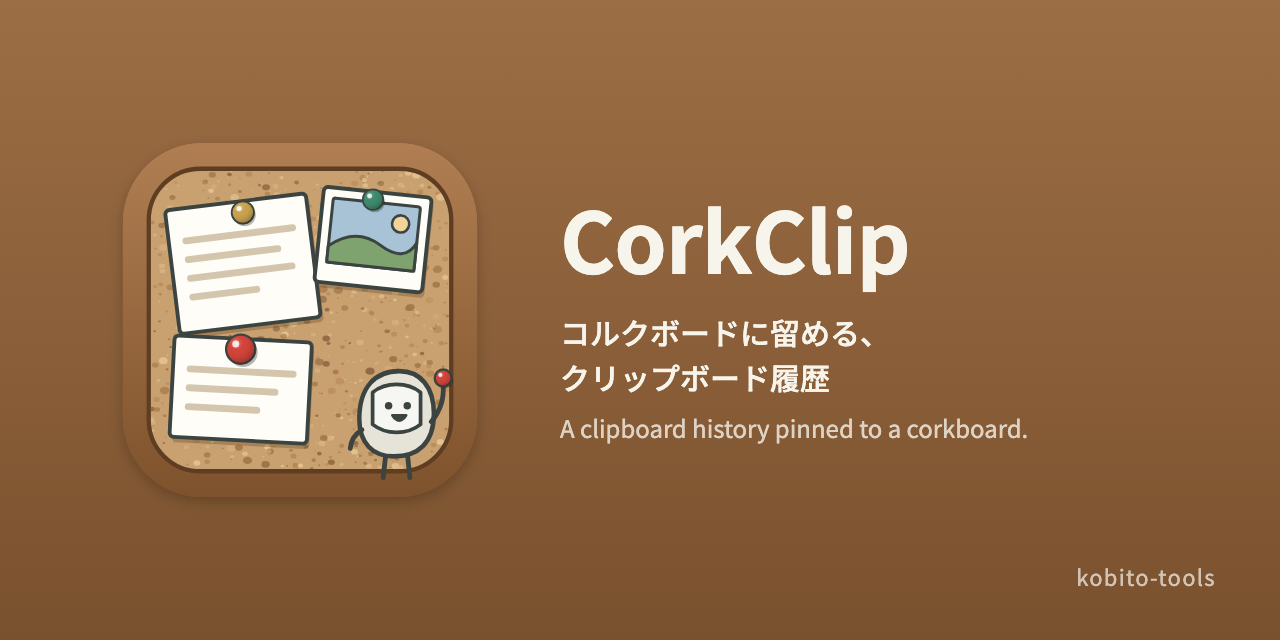
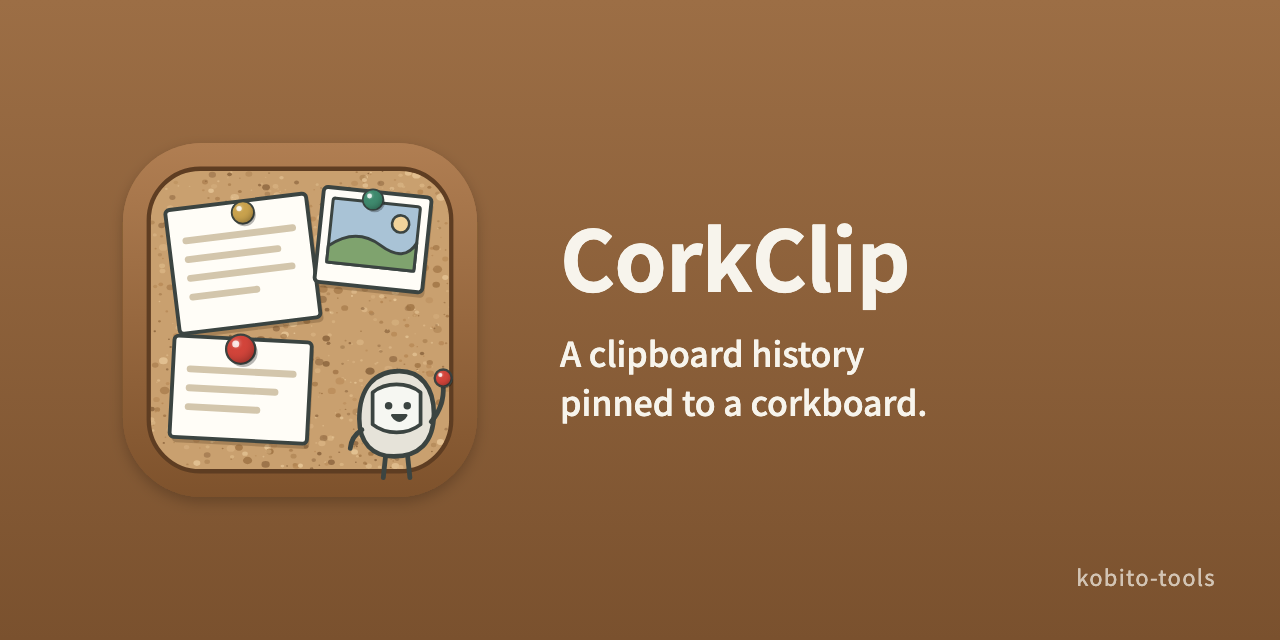
Make the README demo and social preview in English and Japanese
demo.html draws everything in English by default and in Japanese with
?lang=ja; scripts/demo.sh writes docs/images/demo.gif (English) and
demo.ja.gif (Japanese), and README.ja.md shows the Japanese one.
scripts/social-preview.sh writes assets/social-preview.png (English) and
social-preview.ja.png (Japanese).

Changed region(s): [[0.4375, 0.3125, 0.8125, 0.6875]]

diff --git a/scripts/demo/demo.html b/scripts/demo/demo.html
@@ -1,8 +1,9 @@
 <!doctype html>
-<!-- README のデモ（docs/images/demo.gif）の元になる絵。render(秒) でその時刻の画面を描く。scripts/demo.sh がコマ撮りする。
+<!-- README のデモ（docs/images/demo.gif・demo.ja.gif）の元になる絵。render(秒) でその時刻の画面を描く。scripts/demo.sh がコマ撮りする。
      ボードの見た目は Sources/Panel/Theme.swift・Corkboard.swift・PanelView.swift・ModeViews.swift に合わせて描く（実機のパネルは自動では撮れないため）。
-     映すのは架空の内容だけにする（実在の人のパスや履歴を入れない）。字幕は README の既定に合わせて英語、ボードの中はアプリと同じ日本語。 -->
-<html lang="ja"><head><meta charset="utf-8">
+     映すのは架空の内容だけにする（実在の人のパスや履歴を入れない）。
+     ?lang=en（既定）は英語の README 用で、字幕・ボード・例文をすべて英語にする。?lang=ja は日本語の README 用で、すべて日本語。 -->
+<html><head><meta charset="utf-8">
 <style>
 :root{--accent:#4F6C84;--paper:#F7F1E3;--card:#FFFDF7;--cardBorder:#E3D7BF;--well:#FCF9F1;--wellBorder:#DCCFB5;--ink:#3B4441;--subtle:#76716A;--keycap:#EDE5D3;--frame:#8B5E3A;--frameHi:#B07E52;--shade:rgba(91,62,34,.28)}
 *{box-sizing:border-box}
@@ -24,6 +25,8 @@ body{font-family:-apple-system,"Hiragino Sans","Hiragino Kaku Gothic ProN",sans-
 .pdf{padding:26px 34px;font-family:"Hiragino Mincho ProN",serif;font-size:14px;line-height:1.9;color:#222}
 .pdf h3{font-family:-apple-system,"Hiragino Sans",sans-serif;font-size:14px;margin:0 0 8px}
 .gl{height:9px;border-radius:4px;background:#E6E4DF;margin:12px 0}
+body.en .pdf{font-family:"Times New Roman",Times,serif;font-size:15px}
+body.en .tf .names{width:150px}body.en .tf .out{font-size:11.5px}
 .sel{background:#B4D5FE}.inactive .sel{background:#DCDCDC}
 
 /* ボード：論理の大きさ 410×660 で描き、0.85 倍に縮めて置く。 */
@@ -122,16 +125,16 @@ table.tb{border-collapse:collapse;font-size:12px;margin-top:2px;white-space:norm
 table.tb td{border:1px solid #D9D6CE;padding:3px 10px;background:#fff}
 table.tb tr:first-child td{background:#EEF2EA;font-weight:600}
 </style></head><body>
-<div class="menubar"><div class="dot"></div><b id="appname">プレビュー</b><span>ファイル</span><span>編集</span><span>表示</span>
-  <div class="right"><div class="mbicon" id="mbicon"><svg width="18" height="18" viewBox="0 0 18 18"><rect x="1.75" y="3.25" width="14.5" height="11.5" rx="2.2" fill="none" stroke="#3B4441" stroke-width="1.5"/><g fill="#3B4441"><circle cx="12.6" cy="7" r=".6"/><circle cx="13.2" cy="11.6" r=".6"/><circle cx="10.9" cy="12.4" r=".6"/><rect x="4.4" y="7.2" width="6" height="5.4" transform="rotate(-7 7.4 9.6)"/></g><circle cx="7.3" cy="7" r="2.4" fill="#F6F4EE"/><circle cx="7.3" cy="7" r="1.65" fill="#3B4441"/></svg></div><span>9月30日(水) 10:24</span></div></div>
+<div class="menubar"><div class="dot"></div><b id="appname"></b><span id="m1"></span><span id="m2"></span><span id="m3"></span>
+  <div class="right"><div class="mbicon" id="mbicon"><svg width="18" height="18" viewBox="0 0 18 18"><rect x="1.75" y="3.25" width="14.5" height="11.5" rx="2.2" fill="none" stroke="#3B4441" stroke-width="1.5"/><g fill="#3B4441"><circle cx="12.6" cy="7" r=".6"/><circle cx="13.2" cy="11.6" r=".6"/><circle cx="10.9" cy="12.4" r=".6"/><rect x="4.4" y="7.2" width="6" height="5.4" transform="rotate(-7 7.4 9.6)"/></g><circle cx="7.3" cy="7" r="2.4" fill="#F6F4EE"/><circle cx="7.3" cy="7" r="1.65" fill="#3B4441"/></svg></div><span id="clock"></span></div></div>
 
 <div class="win" id="docwin" style="left:36px;top:62px;width:500px;height:430px">
-  <div class="bar"><i style="background:#FF5F57"></i><i style="background:#FEBC2E"></i><i style="background:#28C840"></i><span>ゼミの準備.txt</span></div>
-  <div class="doc"><h2>9月30日 ゼミの準備</h2>・先行研究のまとめ<br><span id="paste"></span><span class="caret" id="caret"></span></div>
+  <div class="bar"><i style="background:#FF5F57"></i><i style="background:#FEBC2E"></i><i style="background:#28C840"></i><span id="doctitle"></span></div>
+  <div class="doc"><h2 id="dochead"></h2><span id="docline"></span><br><span id="paste"></span><span class="caret" id="caret"></span></div>
 </div>
 <div class="win" id="pdfwin" style="left:250px;top:84px;width:520px;height:400px">
-  <div class="bar"><i style="background:#FF5F57"></i><i style="background:#FEBC2E"></i><i style="background:#28C840"></i><span>論文.pdf</span></div>
-  <div class="pdf"><h3>1　はじめに</h3><div id="pdflines"></div>
+  <div class="bar"><i style="background:#FF5F57"></i><i style="background:#FEBC2E"></i><i style="background:#28C840"></i><span id="pdftitle"></span></div>
+  <div class="pdf"><h3 id="pdfhead"></h3><div id="pdflines"></div>
     <div class="gl" style="width:92%"></div><div class="gl" style="width:86%"></div><div class="gl" style="width:90%"></div><div class="gl" style="width:60%"></div></div>
 </div>
 
@@ -141,6 +144,15 @@ table.tb tr:first-child td{background:#EEF2EA;font-weight:600}
 <div class="fly" id="fly">📋</div>
 
 <script>
+// 言語。?lang=ja なら日本語、それ以外は英語。L(日本語, 英語) で文言を選ぶ。
+const EN = new URLSearchParams(location.search).get("lang") !== "ja";
+const L = (ja, en) => EN ? en : ja;
+document.documentElement.lang = L("ja", "en");
+document.body.classList.toggle("en", EN);
+for (const [id, ja, en] of [["m1", "ファイル", "File"], ["m2", "編集", "Edit"], ["m3", "表示", "View"], ["clock", "9月30日(水) 10:24", "Wed Sep 30 10:24"],
+  ["doctitle", "ゼミの準備.txt", "meeting-notes.txt"], ["dochead", "9月30日 ゼミの準備", "Sep 30 — Reading group"], ["docline", "・先行研究のまとめ", "• Summary of related work"],
+  ["pdftitle", "論文.pdf", "paper.pdf"], ["pdfhead", "1　はじめに", "1  Introduction"]]) document.getElementById(id).textContent = L(ja, en);
+
 // ボードの置き方（論理の大きさと縮め方）。
 const PW = 410, PH = 660, SCALE = 0.85, PX = 960 - Math.round(PW * SCALE) - 18, PY = 30;
 
@@ -167,8 +179,10 @@ const corkTile = (() => {
 document.getElementById("panel").style.backgroundImage = `url(${corkTile})`;
 document.getElementById("panel").style.backgroundSize = "140px 140px";
 
-const PDF_LINES = ["大規模言語モデルは、少数の例を示すだけ", "で新しいタスクに適応できることが知られ", "ている。本研究では、その仕組みを注意機", "構の観点から分析する。"];
-const PDF_TEXT = PDF_LINES.join("\n"), JOINED = PDF_LINES.join("");
+const PDF_LINES = L(["大規模言語モデルは、少数の例を示すだけ", "で新しいタスクに適応できることが知られ", "ている。本研究では、その仕組みを注意機", "構の観点から分析する。"],
+  ["Large language models can learn new", "tasks from just a few examples. In this", "paper, we study how this works through", "the lens of attention."]);
+// 改行を消す：日本語はそのままつなぎ、英語は半角スペースでつなぐ（LineJoiner.swift と同じ）。
+const PDF_TEXT = PDF_LINES.join("\n"), JOINED = PDF_LINES.join(L("", " "));
 const WESTERN = s => s.replace(/、/g, "，").replace(/。/g, "．");
 document.getElementById("pdflines").innerHTML = PDF_LINES.map((l, i) => `<div><span id="pl${i}">${l}</span></div>`).join("");
 
@@ -204,46 +218,58 @@ const SYM = {
 };
 const CHART = w => `<svg width="${w}" height="${Math.round(w * .62)}" viewBox="0 0 100 62"><rect width="100" height="62" fill="#fff"/><path d="M12 6v48h82" stroke="#9AA" fill="none" stroke-width=".8"/>
   <rect x="20" y="30" width="14" height="24" fill="#8FA2B3"/><rect x="42" y="18" width="14" height="36" fill="#5F7A90"/><rect x="64" y="10" width="14" height="44" fill="#C75543"/>
-  <text x="50" y="7" font-size="5.5" text-anchor="middle" fill="#444" font-family="sans-serif">精度の比較</text></svg>`;
+  <text x="50" y="7" font-size="5.5" text-anchor="middle" fill="#444" font-family="sans-serif">${L("精度の比較", "Accuracy")}</text></svg>`;
 const APPS = {
-  "com.apple.Preview": ["プレビュー", "#3E8EE8", "P"], "com.apple.screencaptureui": ["スクリーンショット", "#6B7479", "S"],
+  "com.apple.Preview": [L("プレビュー", "Preview"), "#3E8EE8", "P"], "com.apple.screencaptureui": [L("スクリーンショット", "Screenshot"), "#6B7479", "S"],
   "com.microsoft.Excel": ["Microsoft Excel", "#1F7A45", "X"], "com.apple.finder": ["Finder", "#3C9BF0", "F"],
   "io.github.kobito-tools.corkclip": ["CorkClip", "#8B5E3A", "C"], "com.apple.Safari": ["Safari", "#2F86E8", "S"],
 };
 const appIcon = b => `<span class="appi" style="background:${APPS[b][1]}">${APPS[b][2]}</span>`;
 
 // 履歴（架空の内容）。styles は PasteStyle.swift と同じ並び。
-const MORE = ["ほかの変換…", "more"];
+const MORE = [L("ほかの変換…", "More transforms…"), "more"];
+const TAG_PAPER = L("論文", "paper");
+// 日付・回数・大きさの一行。
+const FOOT = (date, copies, pastes, size, chars) => EN
+  ? `${date} · copied ${copies}× · pasted ${pastes}× · ${size}${chars ? ` · ${chars} chars` : ""}`
+  : `${date}・コピー${copies}回・貼り付け${pastes}回・${size}${chars ? `・${chars}文字` : ""}`;
+const PDF_BYTES = new TextEncoder().encode(PDF_TEXT).length;
 const CLIPS = [
-  { id: "pdf", kind: "text", kindLabel: "テキスト", bundle: "com.apple.Preview", time: "10 秒前", tags: ["論文"], display: JOINED,
-    styles: [["そのまま", "text"], ["改行を消す", "joinLines"], ["「，．」に", "abc"], MORE],
-    body: () => esc(PDF_TEXT), result: [null, JOINED, WESTERN(PDF_TEXT)], foot: "2026/09/30 10:24・コピー1回・貼り付け0回・232 bytes・76文字" },
-  { id: "graph", kind: "photo", kindLabel: "画像", bundle: "com.apple.screencaptureui", time: "3 分前", tags: [], display: "画像 1280×800",
-    styles: [["画像", "photo"], ["画像の文字", "search"], MORE],
-    body: () => `<div style="display:flex;justify-content:center">${CHART(180)}</div><div style="font-size:11px;color:#8E8A83;margin-top:4px">画像の文字：精度の比較</div>`,
-    foot: "2026/09/30 10:21・コピー1回・貼り付け0回・184 KB" },
-  { id: "table", kind: "table", kindLabel: "書式付き", bundle: "com.microsoft.Excel", time: "12 分前", tags: ["実験"], display: "条件　精度　時間",
-    styles: [["書式付き", "table"], ["プレーン", "abc"], ["表 → LaTeX", "table"], ["表 → Markdown", "table"], ["表 → CSV", "table"], MORE],
-    body: () => `<table class="tb"><tr><td>条件</td><td>精度</td><td>時間</td></tr><tr><td>手法A</td><td>0.82</td><td>1.4s</td></tr><tr><td>手法B</td><td>0.87</td><td>2.1s</td></tr><tr><td>手法C</td><td>0.91</td><td>3.0s</td></tr></table>`,
-    foot: "2026/09/30 10:12・コピー2回・貼り付け1回・6 KB・48文字" },
-  { id: "file", kind: "file", kindLabel: "ファイル", bundle: "com.apple.finder", time: "1 時間前", tags: [], display: "実験データ.csv",
-    styles: [["ファイル", "file"], ["パス", "file"], ["~ のパス", "file"], ["ファイル名", "text"], ["file://", "link"]],
-    body: () => `<div style="display:flex;gap:8px;align-items:flex-start;white-space:normal"><span style="color:#5C668F">${SYM.file(28)}</span><div><div>実験データ.csv</div><div style="font-size:11px;color:#8E8A83">~/Research/2026</div></div></div>`,
-    foot: "2026/09/30 09:20・コピー1回・貼り付け0回・1 KB" },
-  { id: "formula", kind: "formula", kindLabel: "数式", bundle: "io.github.kobito-tools.corkclip", time: "1 日前", tags: ["論文"], display: "\\int_0^1 f(x)\\,dx = F(1) - F(0)",
-    styles: [["数式画像", "formula"], ["LaTeX の式", "text"], MORE],
+  { id: "pdf", kind: "text", kindLabel: L("テキスト", "Text"), bundle: "com.apple.Preview", time: L("10 秒前", "10 sec ago"), tags: [TAG_PAPER], display: JOINED,
+    // 英語の文には「，．」の貼り方が出ない（PasteStyle.swift と同じ）。
+    styles: EN ? [["As is", "text"], ["Join lines", "joinLines"], MORE] : [["そのまま", "text"], ["改行を消す", "joinLines"], ["「，．」に", "abc"], MORE],
+    body: () => esc(PDF_TEXT), result: [null, JOINED, WESTERN(PDF_TEXT)], foot: FOOT("2026/09/30 10:24", 1, 0, `${PDF_BYTES} bytes`, [...JOINED].length) },
+  { id: "graph", kind: "photo", kindLabel: L("画像", "Image"), bundle: "com.apple.screencaptureui", time: L("3 分前", "3 min ago"), tags: [], display: L("画像 1280×800", "Image 1280×800"),
+    styles: [[L("画像", "Image"), "photo"], [L("画像の文字", "Text in image"), "search"], MORE],
+    body: () => `<div style="display:flex;justify-content:center">${CHART(180)}</div><div style="font-size:11px;color:#8E8A83;margin-top:4px">${L("画像の文字：精度の比較", "Text in image: Accuracy")}</div>`,
+    foot: FOOT("2026/09/30 10:21", 1, 0, "184 KB") },
+  { id: "table", kind: "table", kindLabel: L("書式付き", "Rich text"), bundle: "com.microsoft.Excel", time: L("12 分前", "12 min ago"), tags: [L("実験", "experiment")], display: L("条件　精度　時間", "Method  Accuracy  Time"),
+    styles: [[L("書式付き", "Rich text"), "table"], [L("プレーン", "Plain"), "abc"], [L("表 → LaTeX", "Table → LaTeX"), "table"], [L("表 → Markdown", "Table → Markdown"), "table"], [L("表 → CSV", "Table → CSV"), "table"], MORE],
+    body: () => `<table class="tb"><tr><td>${L("条件", "Method")}</td><td>${L("精度", "Accuracy")}</td><td>${L("時間", "Time")}</td></tr><tr><td>${L("手法A", "Method A")}</td><td>0.82</td><td>1.4s</td></tr><tr><td>${L("手法B", "Method B")}</td><td>0.87</td><td>2.1s</td></tr><tr><td>${L("手法C", "Method C")}</td><td>0.91</td><td>3.0s</td></tr></table>`,
+    foot: FOOT("2026/09/30 10:12", 2, 1, "6 KB", 48) },
+  { id: "file", kind: "file", kindLabel: L("ファイル", "File"), bundle: "com.apple.finder", time: L("1 時間前", "1 hr ago"), tags: [], display: L("実験データ.csv", "results.csv"),
+    styles: [[L("ファイル", "File"), "file"], [L("パス", "Path"), "file"], [L("~ のパス", "~ path"), "file"], [L("ファイル名", "File name"), "text"], ["file://", "link"]],
+    body: () => `<div style="display:flex;gap:8px;align-items:flex-start;white-space:normal"><span style="color:#5C668F">${SYM.file(28)}</span><div><div>${L("実験データ.csv", "results.csv")}</div><div style="font-size:11px;color:#8E8A83">~/Research/2026</div></div></div>`,
+    foot: FOOT("2026/09/30 09:20", 1, 0, "1 KB") },
+  { id: "formula", kind: "formula", kindLabel: L("数式", "Formula"), bundle: "io.github.kobito-tools.corkclip", time: L("1 日前", "1 day ago"), tags: [TAG_PAPER], display: "\\int_0^1 f(x)\\,dx = F(1) - F(0)",
+    styles: [[L("数式画像", "Formula image"), "formula"], [L("LaTeX の式", "LaTeX source"), "text"], MORE],
     body: () => `<div class="mathimg">∫<sub style="font-size:14px">0</sub><sup style="font-size:14px">1</sup> f(x) dx = F(1) − F(0)</div><div style="font:11px Menlo,monospace;color:#8E8A83">\\int_0^1 f(x)\\,dx = F(1) - F(0)</div>`,
-    foot: "2026/09/29 17:05・コピー1回・貼り付け3回・38 KB" },
-  { id: "link", kind: "link", kindLabel: "リンク", bundle: "com.apple.Safari", time: "1 日前", tags: ["論文"], display: "https://example.org/papers/attention-2026",
-    styles: [["そのまま", "link"], MORE],
-    body: () => "https://example.org/papers/attention-2026", foot: "2026/09/29 16:40・コピー1回・貼り付け0回・41 bytes・41文字" },
+    foot: FOOT("2026/09/29 17:05", 1, 3, "38 KB") },
+  { id: "link", kind: "link", kindLabel: L("リンク", "Link"), bundle: "com.apple.Safari", time: L("1 日前", "1 day ago"), tags: [TAG_PAPER], display: "https://example.org/papers/attention-2026",
+    styles: [[L("そのまま", "As is"), "link"], MORE],
+    body: () => "https://example.org/papers/attention-2026", foot: FOOT("2026/09/29 16:40", 1, 0, "41 bytes", 41) },
 ];
 // → の画面（ModeViews.swift のほかの変換と、PanelModel.swift のできること）。
-const TRANSFORMS = ["改行を消す", "句読点を「，．」に", "句読点を「、。」に", "英数字・記号を半角に", "半角カタカナを全角に", "余分な空白を消す", "大文字に", "小文字に", "文の先頭だけ大文字に",
-  "表を LaTeX の tabular に", "表を Markdown に", "表を CSV に", "引用（> ）にする", "箇条書き（- ）にする", "箇条書き（・）にする", "番号付き（1. ）にする", "数式画像にする"];
+const TRANSFORMS = EN
+  ? ["Join lines", "Punctuation to ，．", "Punctuation to 、。", "Full-width to half-width", "Kana to full-width", "Remove extra spaces", "UPPERCASE", "lowercase", "Sentence case",
+    "Table to LaTeX tabular", "Table to Markdown", "Table to CSV", "Quote (> )", "Bullets (- )", "Bullets (・)", "Numbered (1. )", "Formula image"]
+  : ["改行を消す", "句読点を「，．」に", "句読点を「、。」に", "英数字・記号を半角に", "半角カタカナを全角に", "余分な空白を消す", "大文字に", "小文字に", "文の先頭だけ大文字に",
+    "表を LaTeX の tabular に", "表を Markdown に", "表を CSV に", "引用（> ）にする", "箇条書き（- ）にする", "箇条書き（・）にする", "番号付き（1. ）にする", "数式画像にする"];
+// 英語の文では句読点の変換は何も変えない。
 const TF_RESULT = [JOINED, WESTERN(PDF_TEXT), PDF_TEXT];
-const ACTIONS = [["T", "tag", "タグを付ける・外す", "⌘T"], ["P", "pin", "ピン留めする", "⌘P"], ["E", "pencil", "編集してから貼る", "⌘E"], ["L", "formula", "数式画像を作る", "⌘L"],
-  ["K", "stack", "ペーストスタックに積む", ""], ["S", "calPlus", "カードに残す", "⌘S"], ["D", "trash", "履歴から削除", "⌘⌫"]];
+const ACTIONS = [["T", "tag", L("タグを付ける・外す", "Add or remove tags"), "⌘T"], ["P", "pin", L("ピン留めする", "Pin"), "⌘P"], ["E", "pencil", L("編集してから貼る", "Edit, then paste"), "⌘E"],
+  ["L", "formula", L("数式画像を作る", "Make a formula image"), "⌘L"], ["K", "stack", L("ペーストスタックに積む", "Add to the paste stack"), ""], ["S", "calPlus", L("カードに残す", "Keep as a card"), "⌘S"],
+  ["D", "trash", L("履歴から削除", "Delete from history"), "⌘⌫"]];
 
 function esc(s) { return s.replace(/&/g, "&amp;").replace(/</g, "&lt;"); }
 const clamp = (x, a = 0, b = 1) => Math.min(b, Math.max(a, x));
@@ -253,14 +279,14 @@ const pressed = (t, at, len = .2) => t >= at && t < at + len;
 
 // 何秒に何が起きるか：[出す, 消す, キー, 字幕, キーを押す時刻]
 const CAPTIONS = [
-  [1.2, 3.1, ["⌘", "C"], "Copy as usual. CorkClip keeps it as it is", 1.6],
-  [3.3, 4.9, ["⌥", "⌘", "V"], "Bring up the board from the screen edge", 3.7],
-  [5.0, 8.2, ["↑", "↓"], "Pick an item to see it up close", 5.4],
-  [8.3, 10.7, ["⇥"], "Choose how to paste, and check the result first", 8.9],
-  [10.8, 12.3, ["Enter"], "Paste", 11.0],
-  [12.4, 14.9, ["#論文"], "Filter by #tag, type: or app:", 13.2],
-  [15.0, 18.0, ["→"], "Other transforms, and what you can do", 15.3],
-  [18.1, 20.0, ["S"], "One letter runs an action: keep it as a card", 18.5],
+  [1.2, 3.1, ["⌘", "C"], L("いつもどおりコピー。CorkClip がそのまま残します", "Copy as usual. CorkClip keeps it as it is"), 1.6],
+  [3.3, 4.9, ["⌥", "⌘", "V"], L("画面の端からボードを出す", "Bring up the board from the screen edge"), 3.7],
+  [5.0, 8.2, ["↑", "↓"], L("項目を選んで、中身を大きく見る", "Pick an item to see it up close"), 5.4],
+  [8.3, 10.7, ["⇥"], L("貼り方を選び、結果を先に確かめる", "Choose how to paste, and check the result first"), 8.9],
+  [10.8, 12.3, ["Enter"], L("貼る", "Paste"), 11.0],
+  [12.4, 14.9, ["#" + TAG_PAPER], L("#タグ・type:・app: で絞り込む", "Filter by #tag, type: or app:"), 13.2],
+  [15.0, 18.0, ["→"], L("ほかの変換と、この項目にできること", "Other transforms, and what you can do"), 15.3],
+  [18.1, 20.0, ["S"], L("英字1つで操作：カードに残す", "One letter runs an action: keep it as a card"), 18.5],
 ];
 const DOWNS = [5.4, 6.0, 6.6], UPS = [7.3, 7.55, 7.8];
 const TAB_AT = 8.9, ENTER_AT = 11.0, RIGHT_AT = 15.3, TF_DOWN = [16.3, 17.1], S_AT = 18.5;
@@ -282,7 +308,7 @@ function render(t) {
   const docFront = t >= 3.3;
   $("docwin").style.zIndex = docFront ? 2 : 1; $("pdfwin").style.zIndex = docFront ? 1 : 2;
   $("docwin").classList.toggle("inactive", !docFront); $("pdfwin").classList.toggle("inactive", docFront);
-  $("appname").textContent = docFront ? "テキストエディット" : "プレビュー";
+  $("appname").textContent = docFront ? L("テキストエディット", "TextEdit") : L("プレビュー", "Preview");
   // PDF の文を選ぶ。
   const selP = clamp((t - 0.3) / 1.0) * PDF_LINES.length;
   PDF_LINES.forEach((_, i) => $("pl" + i).className = selP > i + 0.2 ? "sel" : "");
@@ -328,8 +354,9 @@ const keycap = (k, down = false, small = false) => `<span class="kc${small ? " s
 function panelHTML(t) {
   const second = t >= 12.4;
   // 検索
-  const typed = !second ? "" : t < 13.2 ? "" : t < 13.5 ? "#" : t < 13.8 ? "#論" : "#論文";
-  const rows = typed === "#論文" ? CLIPS.filter(c => c.tags.includes("論文")) : CLIPS;
+  const full = "#" + TAG_PAPER, half = full.slice(0, Math.ceil(full.length / 2));
+  const typed = !second ? "" : t < 13.2 ? "" : t < 13.5 ? "#" : t < 13.8 ? half : full;
+  const rows = typed === full ? CLIPS.filter(c => c.tags.includes(TAG_PAPER)) : CLIPS;
   // 選択と貼り方
   let sel = 0;
   if (!second) sel = DOWNS.filter(d => t >= d).length - UPS.filter(d => t >= d).length;
@@ -337,23 +364,23 @@ function panelHTML(t) {
   const styleIndex = !second && t >= TAB_AT ? 1 : 0;
   const mode = second && t >= RIGHT_AT && t < S_AT + 0.1 ? "transform" : "list";
   const tfIndex = TF_DOWN.filter(d => t >= d).length;
-  const toast = second && t >= S_AT + 0.1 ? "カードに残しました（9月30日のクリップ・1件）" : null;
-  const lastMethod = second ? "改行を消す" : null; // 1回目に「改行を消す」で貼ったので
+  const toast = second && t >= S_AT + 0.1 ? L("カードに残しました（9月30日のクリップ・1件）", "Kept as a card (Clips for Sep 30 · 1 item)") : null;
+  const lastMethod = second ? L("改行を消す", "Join lines") : null; // 1回目に「改行を消す」で貼ったので
 
   let h = `<div class="header strip"><div class="field">${SYM.search(15)}`
-    + (typed ? `<span class="q">${typed}</span><span class="caret" style="height:15px;visibility:${Math.floor(t * 2) % 2 ? "hidden" : "visible"}"></span>` : `<span class="ph">検索（#タグ type:画像 app:Word …）</span>`)
+    + (typed ? `<span class="q">${typed}</span><span class="caret" style="height:15px;visibility:${Math.floor(t * 2) % 2 ? "hidden" : "visible"}"></span>` : `<span class="ph">${L("検索（#タグ type:画像 app:Word …）", "Search (#tag type:image app:Word …)")}</span>`)
     + `</div>${SYM.sort(16)}${SYM.gear(16)}</div>`;
 
   if (mode === "transform") {
     h += `<div class="well" style="height:250px">${pin("l")}${pin("r")}<div class="mode" style="height:100%">`
-      + `<div class="mtitle">${SYM.wand(17)}ほかの変換<span class="r">space でつなげる</span></div>`
+      + `<div class="mtitle">${SYM.wand(17)}${L("ほかの変換", "More transforms")}<span class="r">${L("space でつなげる", "space to chain")}</span></div>`
       + `<div class="tf"><div class="names">${TRANSFORMS.map((x, i) => `<div class="${i === tfIndex ? "on" : ""}">${x}</div>`).join("")}</div>`
       + `<div class="out">${esc(TF_RESULT[tfIndex])}</div></div></div></div>`;
     const sDown = pressed(t, S_AT, .2);
-    h += `<div class="well" style="flex:1;min-height:0">${pin("l")}${pin("r")}<div class="mode" style="gap:6px"><div class="mtitle">${SYM.bolt(17)}この項目にできること</div><div style="display:flex;flex-direction:column;gap:1px">`
+    h += `<div class="well" style="flex:1;min-height:0">${pin("l")}${pin("r")}<div class="mode" style="gap:6px"><div class="mtitle">${SYM.bolt(17)}${L("この項目にできること", "What you can do with this item")}</div><div style="display:flex;flex-direction:column;gap:1px">`
       + ACTIONS.map(([k, sy, l, s]) => `<div class="act${k === "S" && sDown ? " on" : ""}"><span class="k${k === "S" && sDown ? " down" : ""}">${k}</span><span class="sy">${SYM[sy](16)}</span>${l}<span class="sc">${s}</span></div>`).join("")
       + `</div></div></div>`;
-    h += `<div class="hints strip">${[["⏎", "変換して貼る"], ["英字", "できること"], ["⇥", "切り替え"], ["esc", "戻る"]].map(([k, x]) => `<span>${keycap(k, false, true)}${x}</span>`).join("")}</div>`;
+    h += `<div class="hints strip">${(EN ? [["⏎", "Paste"], ["A–Z", "Actions"], ["⇥", "Switch"], ["esc", "Back"]] : [["⏎", "変換して貼る"], ["英字", "できること"], ["⇥", "切り替え"], ["esc", "戻る"]]).map(([k, x]) => `<span>${keycap(k, false, true)}${x}</span>`).join("")}</div>`;
     return h;
   }
 
@@ -361,14 +388,14 @@ function panelHTML(t) {
   const [style] = clip.styles[styleIndex];
   const b = APPS[clip.bundle];
   let body = clip.body();
-  if (styleIndex > 0) body = `<div class="styled">${SYM[clip.styles[styleIndex][1]](12)}「${style}」で貼られる内容</div>${esc(clip.result[styleIndex])}`;
-  h += `<div class="well" style="height:248px">${pin("l")}${pin("r")}<div class="wtitle">プレビュー</div>`
+  if (styleIndex > 0) body = `<div class="styled">${SYM[clip.styles[styleIndex][1]](12)}${L(`「${style}」で貼られる内容`, `What “${style}” will paste`)}</div>${esc(clip.result[styleIndex])}`;
+  h += `<div class="well" style="height:248px">${pin("l")}${pin("r")}<div class="wtitle">${L("プレビュー", "Preview")}</div>`
     + `<div class="pvhead">${appIcon(clip.bundle)}${b[0]}<span class="tags">${clip.tags.map(x => "#" + x).join(" ")}</span><span class="kind">${SYM[clip.kind](13)}${clip.kindLabel}</span></div>`
     + `<div class="pvbody">${body}</div><div class="pvfoot">${clip.foot}</div>`
-    + `<div class="styles"><span class="lbl">貼り方</span><div class="chips">${clip.styles.map(([s, sy], i) => `<span class="chip${i === styleIndex ? " on" : ""}">${SYM[sy](13)}${s}</span>`).join("")}</div></div></div>`;
+    + `<div class="styles"><span class="lbl">${L("貼り方", "Paste as")}</span><div class="chips">${clip.styles.map(([s, sy], i) => `<span class="chip${i === styleIndex ? " on" : ""}">${SYM[sy](13)}${s}</span>`).join("")}</div></div></div>`;
 
   // 履歴のカード
-  h += `<div class="list"><div class="inner"><div class="section strip">${SYM.clock(10)} ${typed === "#論文" ? "見つかった履歴" : "履歴"} <span class="count">${rows.length}</span></div>`;
+  h += `<div class="list"><div class="inner"><div class="section strip">${SYM.clock(10)} ${typed === full ? L("見つかった履歴", "Matches") : L("履歴", "History")} <span class="count">${rows.length}</span></div>`;
   rows.forEach((c, i) => {
     const tint = color(c.bundle);
     const lead = c.kind === "photo" ? CHART(42) : SYM[c.kind](19);
@@ -380,16 +407,16 @@ function panelHTML(t) {
   if (toast) h += `<div class="toast">${SYM.check(15)}${toast}</div>`;
 
   // 主なキー（PanelView.swift の ShortcutGuide）
-  const enter = styleIndex === 0 ? "そのまま貼る" : `「${style}」で貼る`;
-  const last = lastMethod ? `前回の「${lastMethod}」で貼る` : "前回の貼り方で貼る";
+  const enter = styleIndex === 0 ? L("そのまま貼る", "Paste as is") : L(`「${style}」で貼る`, `Paste as “${style}”`);
+  const last = lastMethod ? L(`前回の「${lastMethod}」で貼る`, `Last style: “${lastMethod}”`) : L("前回の貼り方で貼る", "Paste with the last style");
   const enterDown = !second && pressed(t, ENTER_AT), tabDown = !second && pressed(t, TAB_AT), rightDown = second && pressed(t, RIGHT_AT);
   const guideRows = [
     [[keycap("⏎ Enter", enterDown)], enter, styleIndex > 0],
-    [[keycap("⇧ Shift"), keycap("⏎ Enter")], "書式を除いて貼る"],
+    [[keycap("⇧ Shift"), keycap("⏎ Enter")], L("書式を除いて貼る", "Paste without formatting")],
     [[keycap("⌃ Ctrl"), keycap("⏎ Enter")], last],
-    [[keycap("→", rightDown)], "ほかの変換・できること"],
+    [[keycap("→", rightDown)], L("ほかの変換・できること", "More transforms & actions")],
   ];
-  h += `<div class="guide strip"><div class="top"><b>主なキー</b>${keycap("⇥", tabDown, true)}貼り方を切り替え<span style="width:4px"></span>${keycap("⌘/", false, true)}キーの一覧</div><div class="grid">`
+  h += `<div class="guide strip"><div class="top"><b>${L("主なキー", "Main keys")}</b>${keycap("⇥", tabDown, true)}${L("貼り方を切り替え", "Switch style")}<span style="width:4px"></span>${keycap("⌘/", false, true)}${L("キーの一覧", "All keys")}</div><div class="grid">`
     + guideRows.map(([keys, text, hot]) => `<div class="keys">${keys.join('<span class="plus">+</span>')}</div><div class="tx${hot ? " hot" : ""}">${text}</div>`).join("")
     + `</div></div>`;
   return h;

diff --git a/README.md b/README.md
@@ -346,7 +346,7 @@ Apps in the series can open CorkClip with these `kobito://` URLs. Pass them to t
 
 ### Rebuild the demo
 
-The README demo (`docs/images/demo.gif`) is a drawn mock-up of the board in `scripts/demo/demo.html`, captured frame by frame with `scripts/demo.sh`. It needs Google Chrome, Node.js 22 or later, and ffmpeg.
+The README demos (`docs/images/demo.gif` in English, `docs/images/demo.ja.gif` in Japanese) are a drawn mock-up of the board in `scripts/demo/demo.html`, captured frame by frame with `scripts/demo.sh`. It needs Google Chrome, Node.js 22 or later, and ffmpeg.
 
 ### Issues
 
